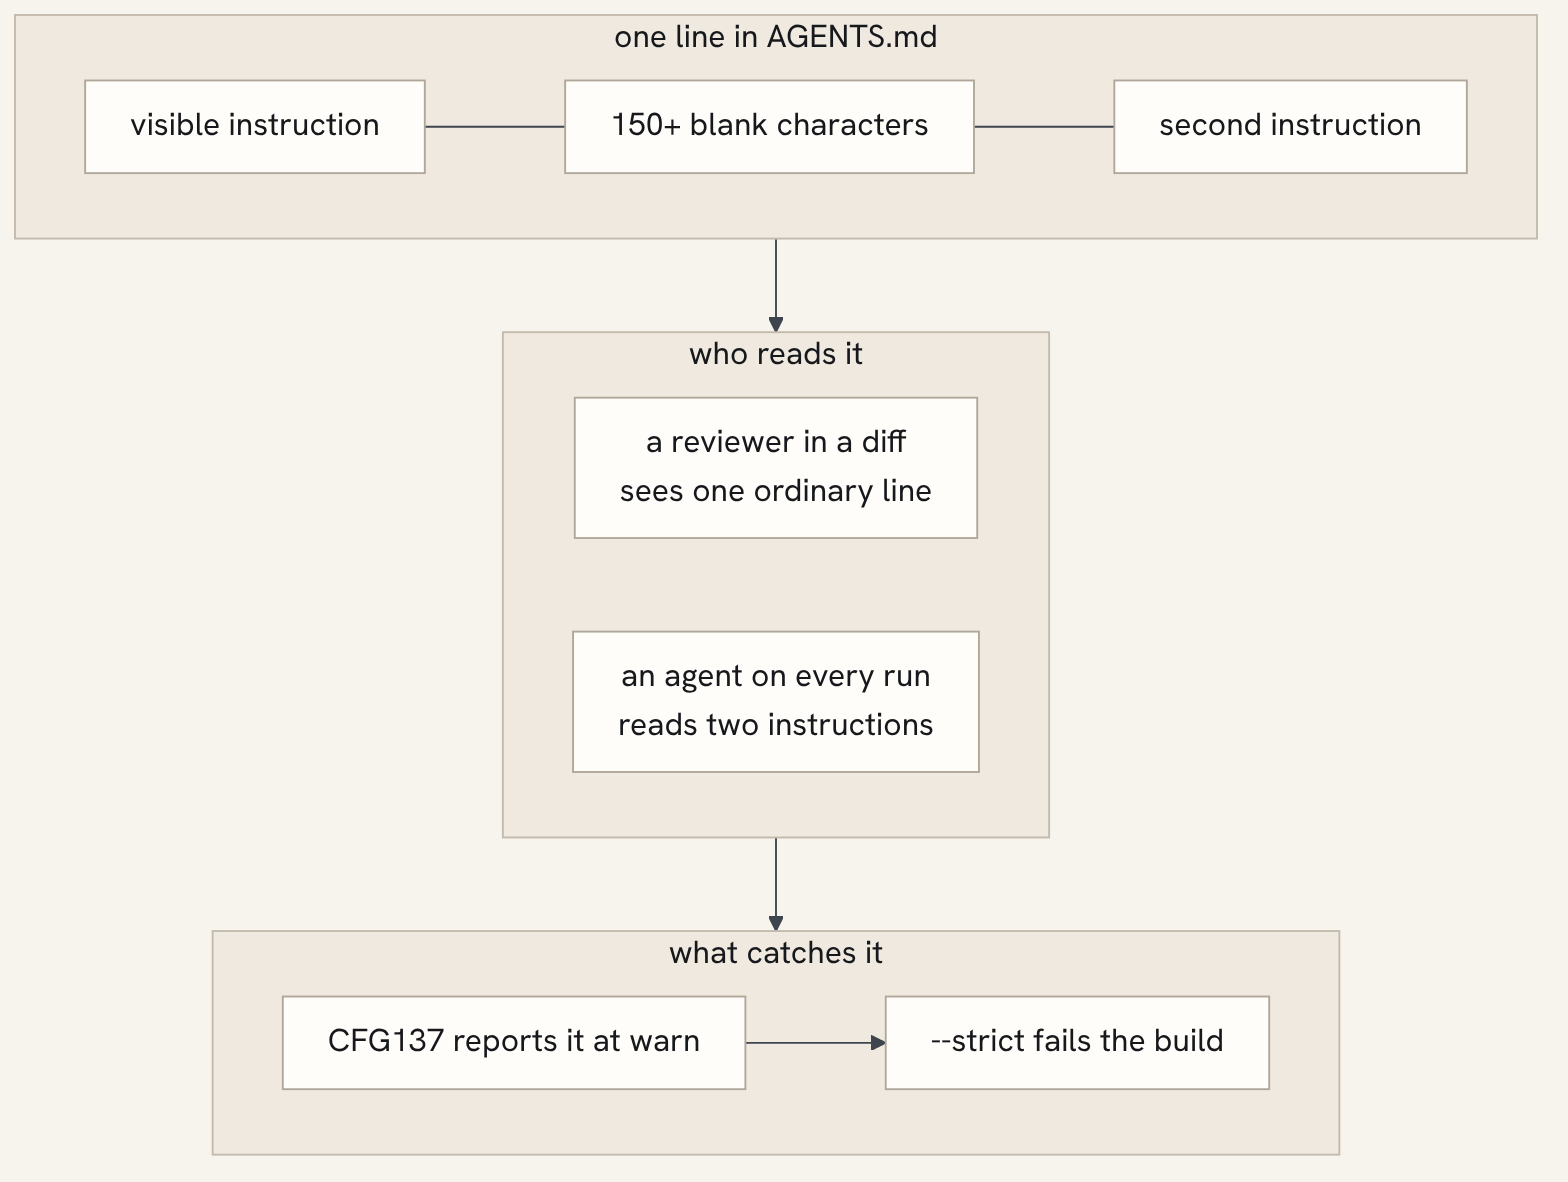
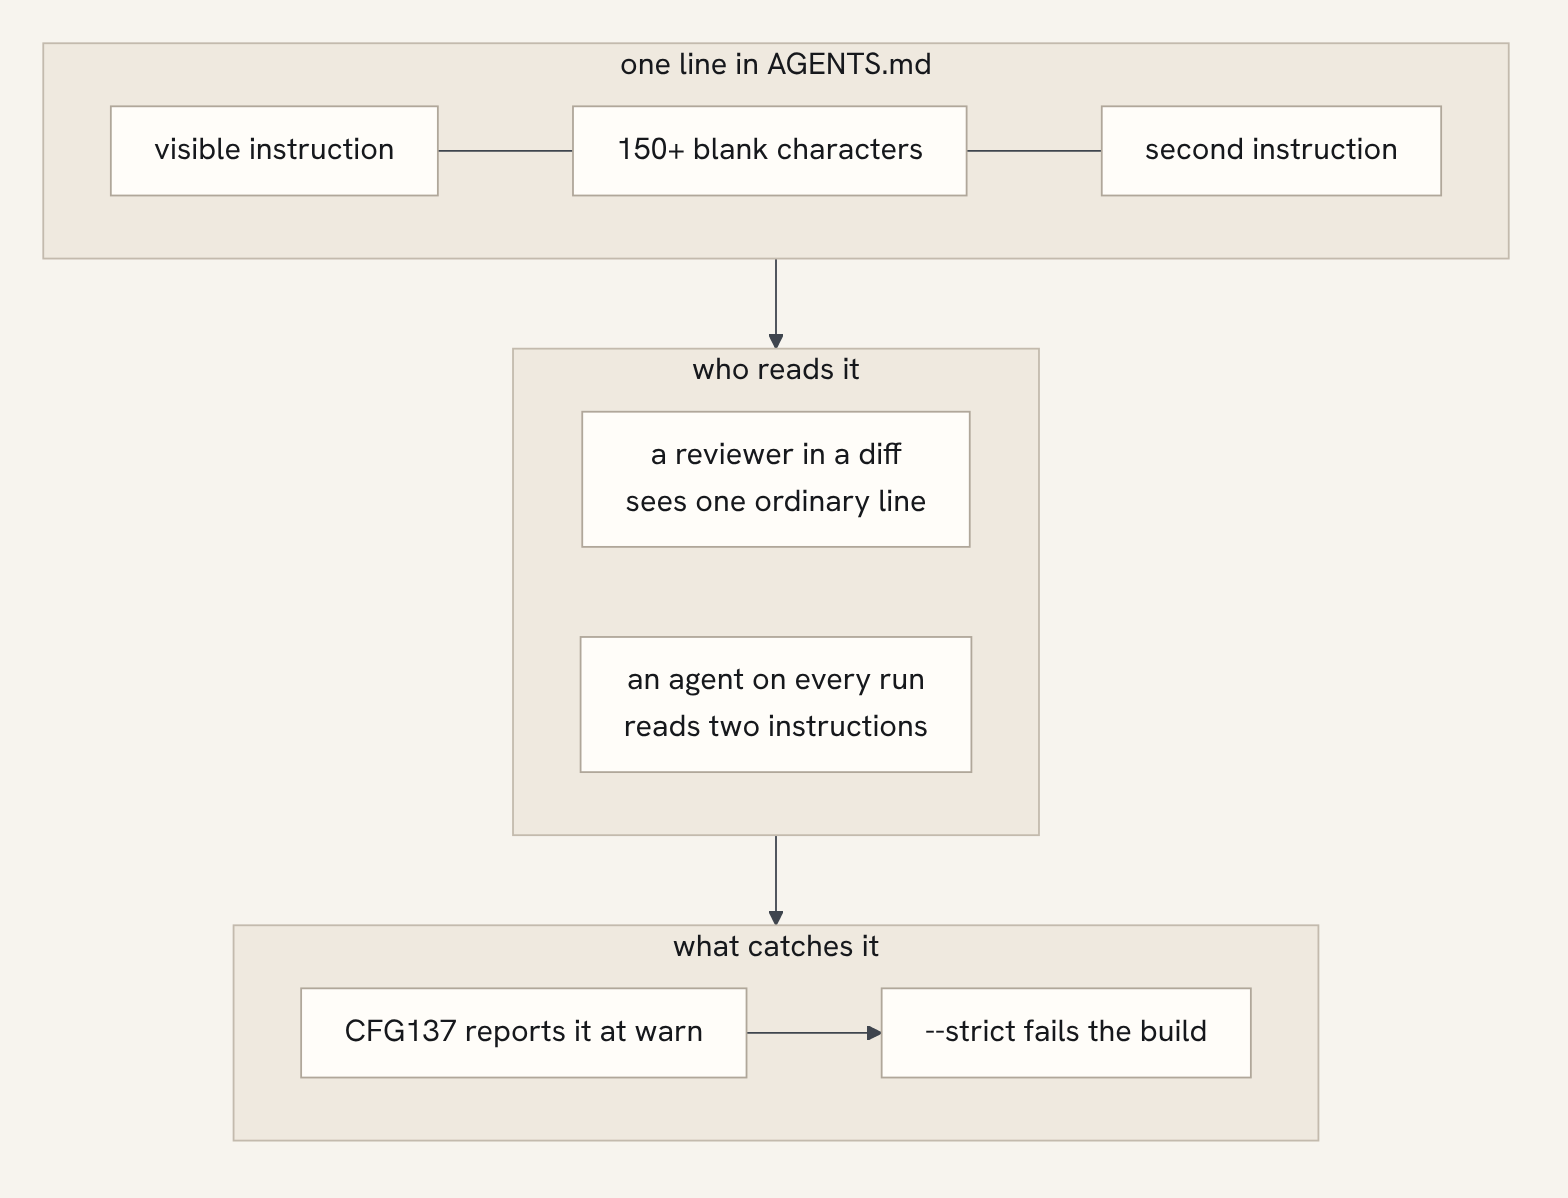
blog: pad the diagram canvas so the cluster titles are never clipped

diff --git a/src/content/posts/why-this-blog-exists.md b/src/content/posts/why-this-blog-exists.md
@@ -33,7 +33,7 @@ are the source of truth, and a push rebuilds the published site.
 ## Where else this appears
 
 <figure>
-  <img src="/diagrams/why-this-blog-exists-0.svg" alt="Publishing flow in three stages. Signal: merged pull requests enter a candidate queue that is scored and deduplicated. Selection: one candidate is picked per week, trend-checked, then drafted in markdown. Publishing: the diagram is rendered, the article goes live here as the canonical page, and is cross-posted to dev.to with canonical_url." width="826" height="500" loading="lazy" decoding="async">
+  <img src="/diagrams/why-this-blog-exists-0.svg" alt="Publishing flow in three stages. Signal: merged pull requests enter a candidate queue that is scored and deduplicated. Selection: one candidate is picked per week, trend-checked, then drafted in markdown. Publishing: the diagram is rendered, the article goes live here as the canonical page, and is cross-posted to dev.to with canonical_url." width="858" height="532" loading="lazy" decoding="async">
   <figcaption>From merged pull request to canonical page.</figcaption>
 </figure>
 

diff --git a/src/content/posts/hidden-text-in-agent-instruction-files.md b/src/content/posts/hidden-text-in-agent-instruction-files.md
@@ -51,7 +51,7 @@ Two details make it worse than a novelty:
 ## A rule for it
 
 <figure>
-  <img src="/diagrams/hidden-text-in-agent-instruction-files-0.svg" alt="One line in AGENTS.md holds a visible instruction, a run of 150 or more blanks, and a second instruction. A reviewer in a diff sees one ordinary line, while an agent on every run reads two instructions. CFG137 reports it at warn, and --strict fails the build." width="831" height="625" loading="lazy" decoding="async">
+  <img src="/diagrams/hidden-text-in-agent-instruction-files-0.svg" alt="One line in AGENTS.md holds a visible instruction, a run of 150 or more blanks, and a second instruction. A reviewer in a diff sees one ordinary line, while an agent on every run reads two instructions. CFG137 reports it at warn, and --strict fails the build." width="863" height="657" loading="lazy" decoding="async">
   <figcaption>One line, two readers, two different meanings.</figcaption>
 </figure>
 
